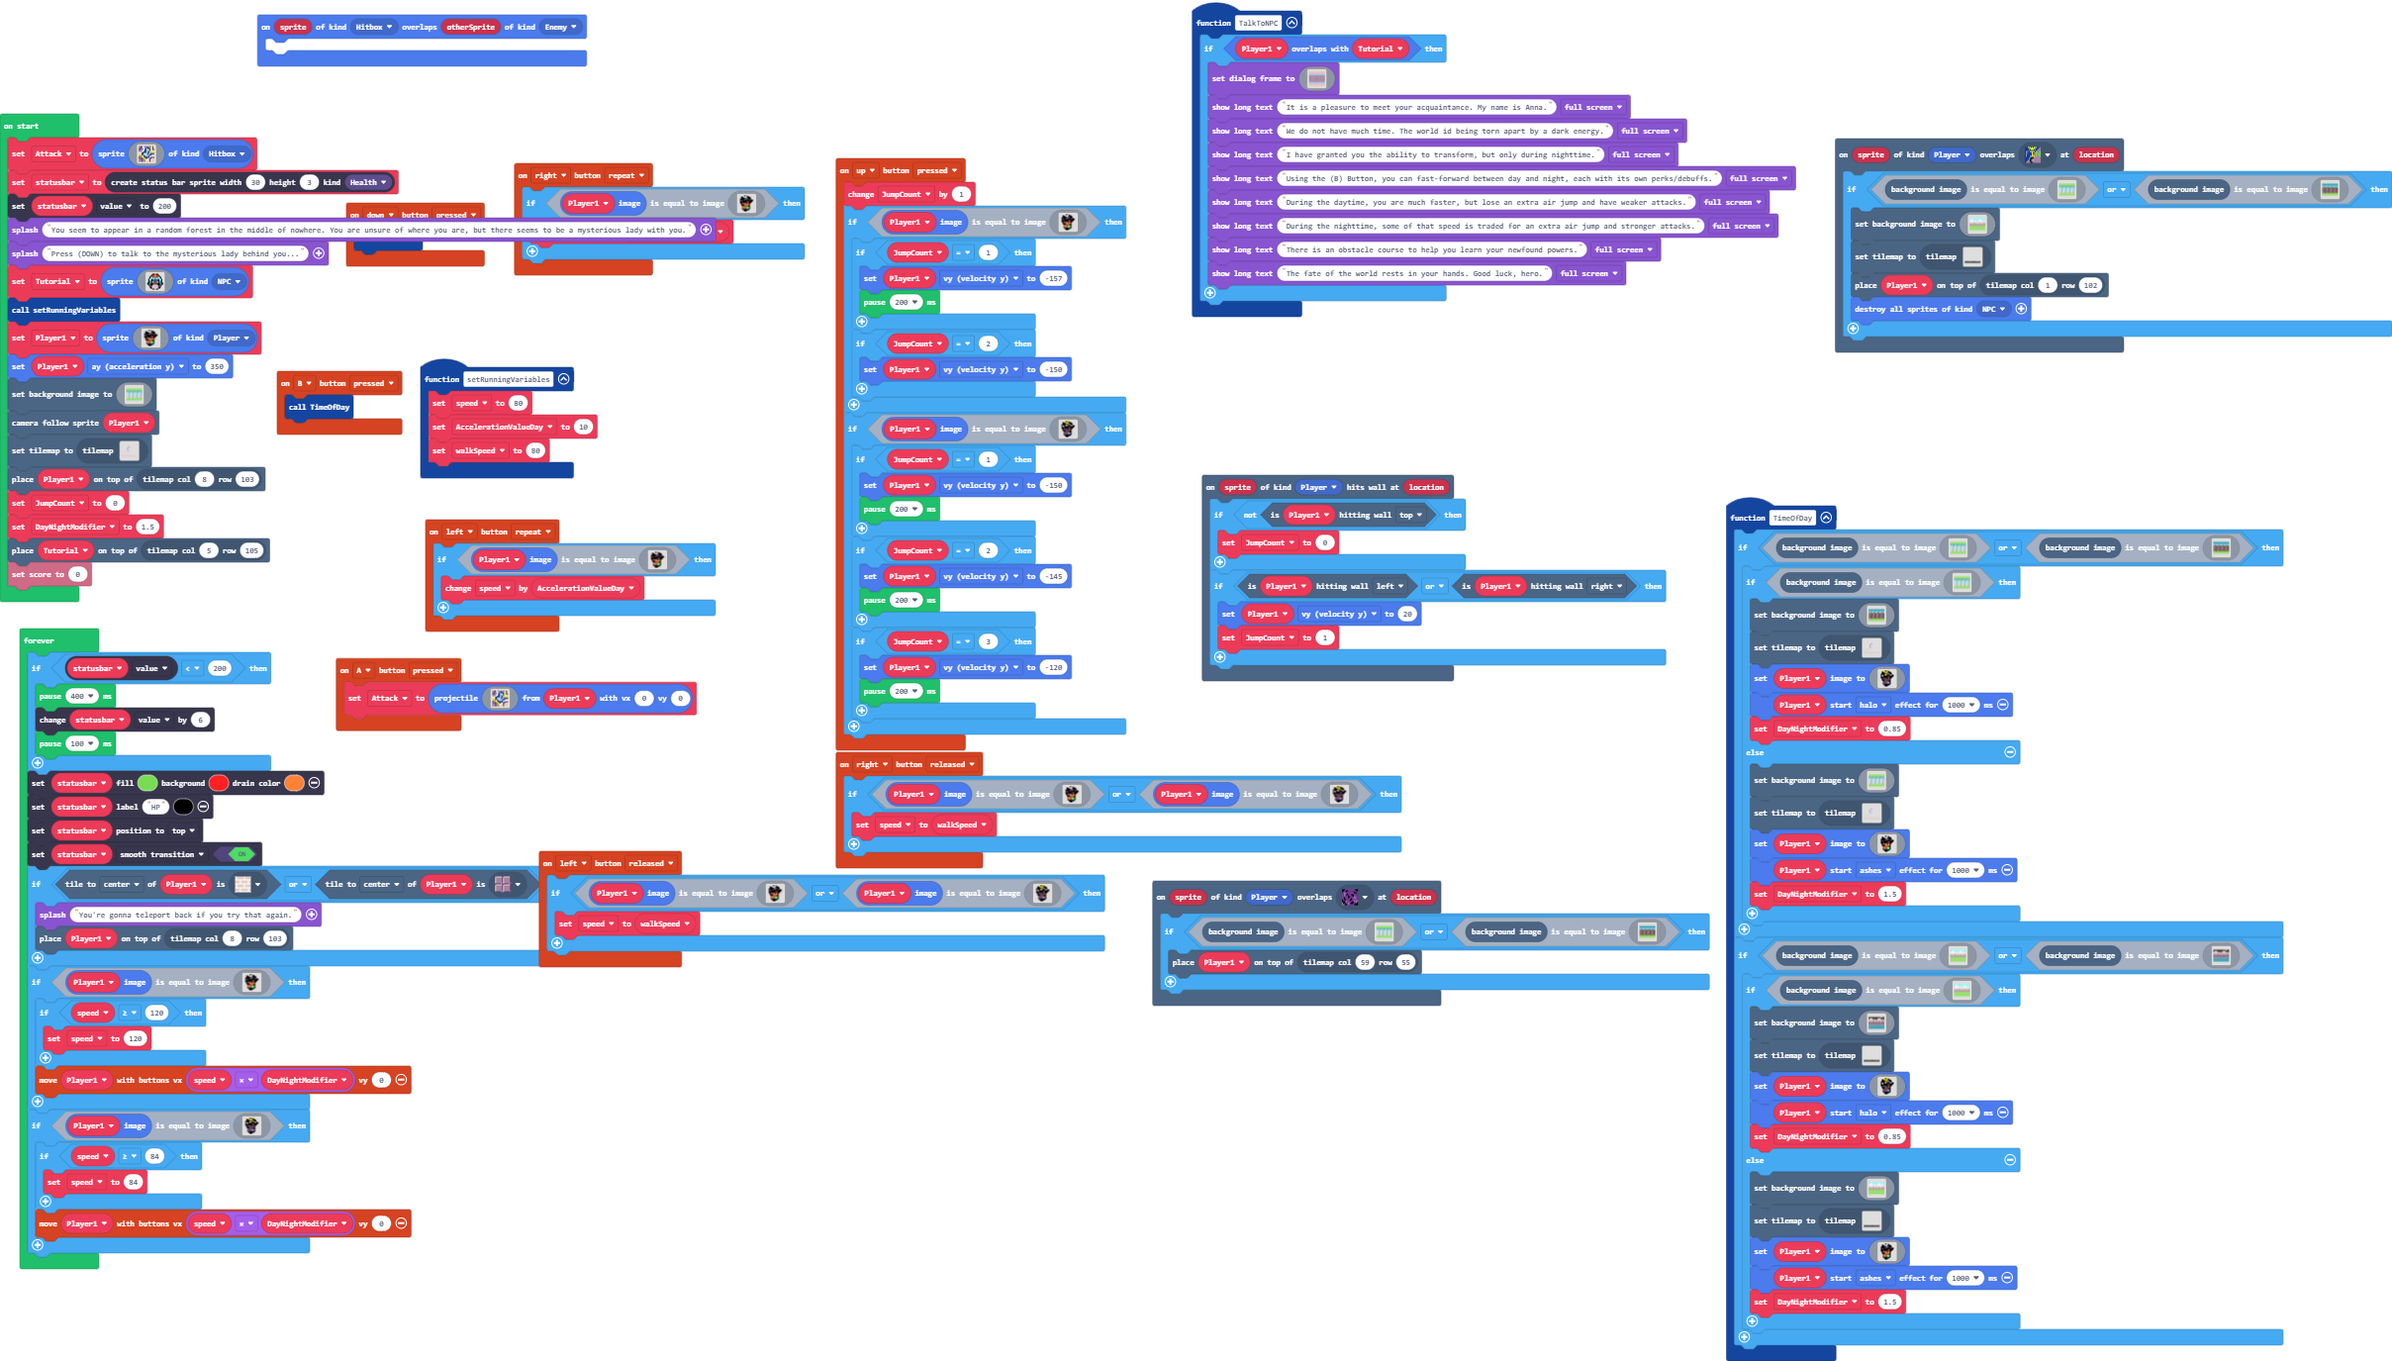
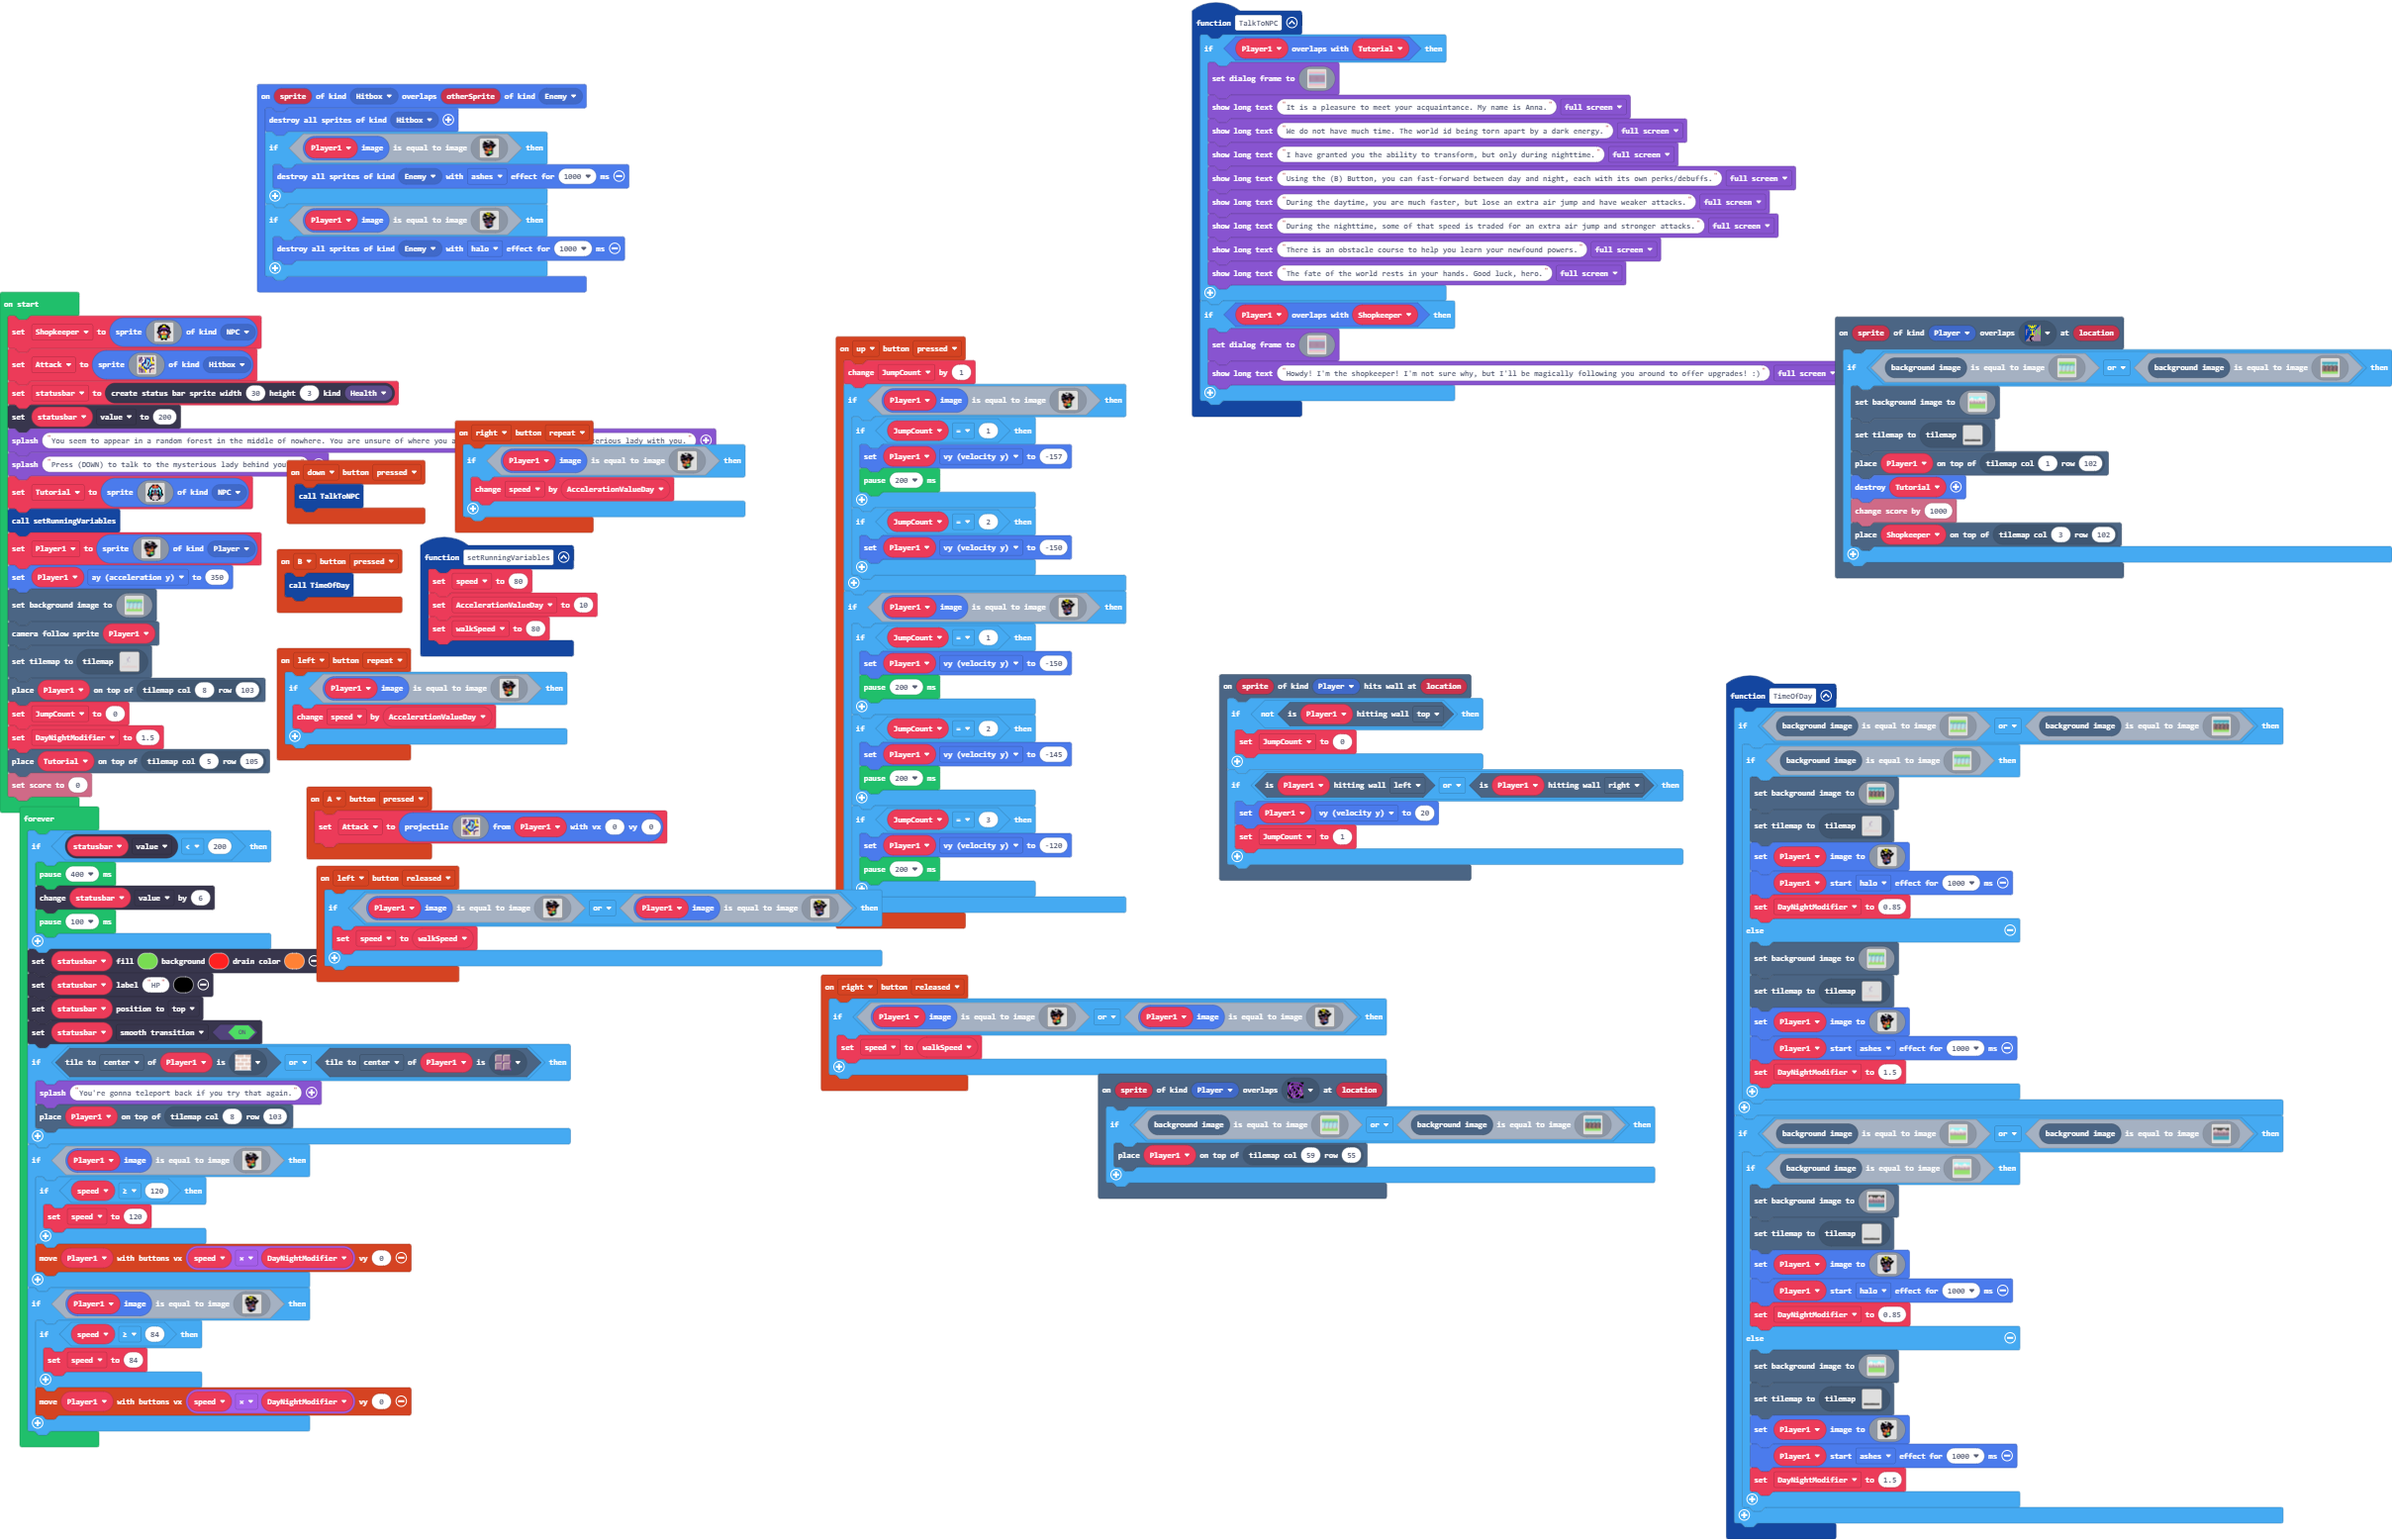
Set up a shopkeeper sprite. Now I just have to set up the actual buy system. Also destroyed the tutorial sprite.

diff --git a/main.ts b/main.ts
@@ -38,7 +38,13 @@ scene.onHitWall(SpriteKind.Player, function (sprite, location) {
     }
 })
 sprites.onOverlap(SpriteKind.Hitbox, SpriteKind.Enemy, function (sprite, otherSprite) {
-	
+    sprites.destroyAllSpritesOfKind(SpriteKind.Hitbox)
+    if (Player1.image.equals(assets.image`IdleDay1`)) {
+        sprites.destroyAllSpritesOfKind(SpriteKind.Enemy, effects.ashes, 1000)
+    }
+    if (Player1.image.equals(assets.image`IdleNight1`)) {
+        sprites.destroyAllSpritesOfKind(SpriteKind.Enemy, effects.halo, 1000)
+    }
 })
 controller.B.onEvent(ControllerButtonEvent.Pressed, function () {
     TimeOfDay()
@@ -88,7 +94,9 @@ scene.onOverlapTile(SpriteKind.Player, assets.tile`GoalTile`, function (sprite, 
         scene.setBackgroundImage(assets.image`Level1FGBG`)
         tiles.setCurrentTilemap(tilemap`Level 1 - Day`)
         tiles.placeOnTile(Player1, tiles.getTileLocation(1, 102))
-        sprites.destroyAllSpritesOfKind(SpriteKind.NPC)
+        sprites.destroy(Tutorial)
+        info.changeScoreBy(1000)
+        tiles.placeOnTile(Shopkeeper, tiles.getTileLocation(3, 102))
     }
 })
 controller.right.onEvent(ControllerButtonEvent.Released, function () {
@@ -121,6 +129,10 @@ function TalkToNPC () {
         game.showLongText("There is an obstacle course to help you learn your newfound powers.", DialogLayout.Full)
         game.showLongText("The fate of the world rests in your hands. Good luck, hero.", DialogLayout.Full)
     }
+    if (Player1.overlapsWith(Shopkeeper)) {
+        game.setDialogFrame(assets.image`SpeechBG`)
+        game.showLongText("Howdy! I'm the shopkeeper! I'm not sure why, but I'll be magically following you around to offer upgrades! :)", DialogLayout.Full)
+    }
 }
 function setRunningVariables () {
     speed = 80
@@ -140,6 +152,8 @@ let JumpCount = 0
 let Player1: Sprite = null
 let Tutorial: Sprite = null
 let Attack: Sprite = null
+let Shopkeeper: Sprite = null
+Shopkeeper = sprites.create(assets.image`Shopkeeper`, SpriteKind.NPC)
 Attack = sprites.create(assets.image`Attack`, SpriteKind.Hitbox)
 let statusbar = statusbars.create(30, 3, StatusBarKind.Health)
 statusbar.value = 200

diff --git a/tilemap.g.ts b/tilemap.g.ts
@@ -528,6 +528,25 @@ namespace myTiles {
 . . . . . . . . . . . . . . . . 
 . . . . . . . . . . . . . . . . 
 `, [myTiles.transparency16], TileScale.Sixteen);
+            case "level4":
+            case "level4":return tiles.createTilemap(hex`1000100000000000000000000000000000000000000000000000000000000000000000000000000000000000000000000000000000000000000000000000000000000000000000000000000000000000000000000000000000000000000000000000000000000000000000000000000000000000000000000000000000000000000000000000000000000000000000000000000000000000000000000000000000000000000000000000000000000000000000000000000000000000000000000000000000000000000000000000000000000000000000000000000000000000000000000000000000000000000000000000000000000000000000000000000000000000`, img`
+. . . . . . . . . . . . . . . . 
+. . . . . . . . . . . . . . . . 
+. . . . . . . . . . . . . . . . 
+. . . . . . . . . . . . . . . . 
+. . . . . . . . . . . . . . . . 
+. . . . . . . . . . . . . . . . 
+. . . . . . . . . . . . . . . . 
+. . . . . . . . . . . . . . . . 
+. . . . . . . . . . . . . . . . 
+. . . . . . . . . . . . . . . . 
+. . . . . . . . . . . . . . . . 
+. . . . . . . . . . . . . . . . 
+. . . . . . . . . . . . . . . . 
+. . . . . . . . . . . . . . . . 
+. . . . . . . . . . . . . . . . 
+. . . . . . . . . . . . . . . . 
+`, [myTiles.transparency16], TileScale.Sixteen);
         }
         return null;
     })

diff --git a/images.g.ts b/images.g.ts
@@ -798,6 +798,25 @@ b b b c b b 5 5 1 d d c d d d d
 b b b c b b b 5 1 d d c d d d d 
 b b b c b b b 5 d d d c d d d d 
 `;
+            case "image14":
+            case "Shopkeeper":return img`
+. . . . . . f f f f . . . . . . 
+. . . . f f f 5 5 f f f . . . . 
+. . . f f f 5 5 5 5 f f f . . . 
+. . f f f c c c c c c f f f . . 
+. . f f c a a a a a a c c f . . 
+. . f c a f f f f f f a c f . . 
+. . f f f f c c c c f f f f . . 
+. f f c f b . e e . b f c f f . 
+. f c c e 1 . 4 4 . 1 e c c f . 
+. . f c e 4 4 4 4 4 4 e c f . . 
+. . . f c c e e e e c c f . . . 
+. . b e f 6 5 5 5 5 6 f e b . . 
+. . e 4 f 6 5 6 6 6 6 f 4 e . . 
+. . e e f 6 5 5 5 5 6 f e e . . 
+. . . . . f f f f f f . . . . . 
+. . . . . f f . . f f . . . . . 
+`;
         }
         return null;
     })
